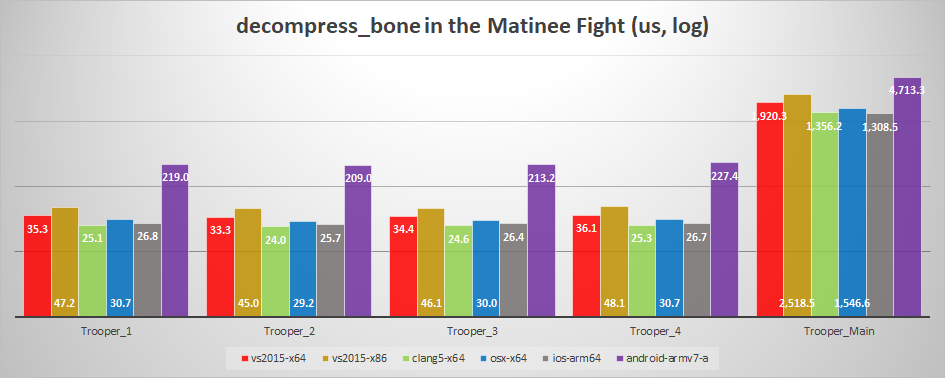
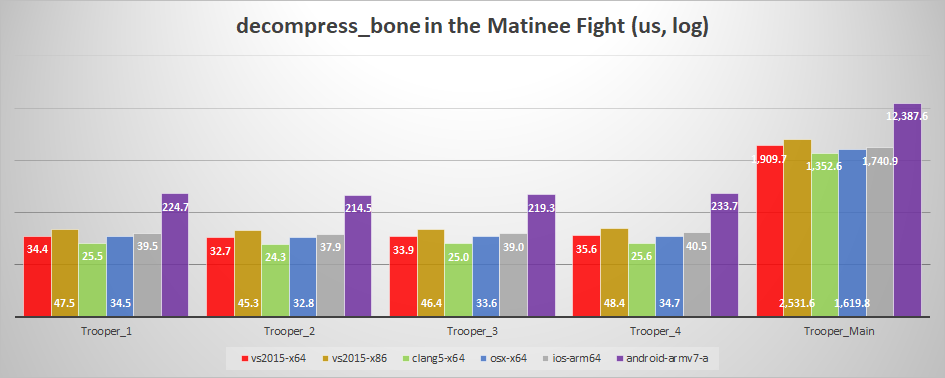
Updating decompression stats. Adding delta decompression stats with previous version as well as supporting script to generate the data.

Changed region(s): [[0.0, 0.4074, 0.7672, 0.8439], [0.7365, 0.2037, 0.982, 0.8439], [0.8286, 0.7857, 0.8593, 0.8148]]

diff --git a/tools/graph_generation/gen_decomp_delta_stats.py b/tools/graph_generation/gen_decomp_delta_stats.py
@@ -1,0 +1,83 @@
+import numpy
+import os
+import sys
+
+# This script depends on a SJSON parsing package:
+# https://pypi.python.org/pypi/SJSON/1.1.0
+# https://shelter13.net/projects/SJSON/
+# https://bitbucket.org/Anteru/sjson/src
+import sjson
+
+def get_clip_name(clip_filename):
+	return clip_filename.replace('_stats.sjson', '')
+
+def get_clip_names(stats_dir):
+	clip_names = []
+	for (dirpath, dirnames, filenames) in os.walk(stats_dir):
+		for filename in filenames:
+			if not filename.endswith('.sjson'):
+				continue
+			clip_names.append(get_clip_name(filename))
+	return sorted(clip_names)
+
+def get_clip_stat_files(stats_dir):
+	stat_files = []
+	for (dirpath, dirnames, filenames) in os.walk(stats_dir):
+		for filename in filenames:
+			if not filename.endswith('.sjson'):
+				continue
+			stat_files.append((get_clip_name(filename), os.path.join(dirpath, filename)))
+	return sorted(stat_files, key = lambda x: x[0])
+
+if __name__ == "__main__":
+	if len(sys.argv) != 2:
+		print('Usage: python gen_decomp_delta_stats.py <path/to/input_file.sjson>')
+		sys.exit(1)
+
+	input_sjson_file = sys.argv[1]
+	if not input_sjson_file.endswith('.sjson'):
+		print('Expected SJSON input file, found: {}'.format(input_sjson_file))
+		sys.exit(1)
+
+	if not os.path.exists(input_sjson_file):
+		print('Input file not found: {}'.format(input_sjson_file))
+		sys.exit(1)
+
+	with open(input_sjson_file, 'r') as file:
+		input_sjson_data = sjson.loads(file.read())
+
+	clip_names = []
+
+	decomp_delta_cold_csv_file = open('decomp_delta_cold_forward_stats.csv', 'w')
+
+	for entry in input_sjson_data['inputs']:
+		print('Processing {} ...'.format(entry['stats_dir']))
+
+		if len(clip_names) == 0:
+			clip_names = get_clip_names(entry['stats_dir'])
+			print('Variants,Config,Version,{}'.format(','.join(clip_names)), file = decomp_delta_cold_csv_file)
+
+		pose_cold_medians = []
+		pose_warm_medians = []
+		bone_cold_medians = []
+
+		stat_files = get_clip_stat_files(entry['stats_dir'])
+		for (clip_name, stat_filename) in stat_files:
+			print('  Processing {} ...'.format(stat_filename))
+
+			with open(stat_filename, 'r') as file:
+				clip_sjson_data = sjson.loads(file.read())
+
+			run_data = clip_sjson_data['runs'][0]['decompression_time_per_sample']
+
+			# We also convert the elapsed time from milliseconds into microseconds
+			forward_data_pose_cold = run_data['forward_pose_cold']['data']
+			pose_cold_medians.append(str(numpy.median(forward_data_pose_cold) * 1000.0))
+
+			forward_data_bone_cold = run_data['forward_bone_cold']['data']
+			bone_cold_medians.append(str(numpy.median(forward_data_bone_cold) * 1000.0))
+
+		print('decompress_pose,{},{},{}'.format(entry['name'], entry['version'], ','.join(pose_cold_medians)), file = decomp_delta_cold_csv_file)
+		print('decompress_bone,{},{},{}'.format(entry['name'], entry['version'], ','.join(bone_cold_medians)), file = decomp_delta_cold_csv_file)
+
+	decomp_delta_cold_csv_file.close()

diff --git a/docs/decompression_performance.md b/docs/decompression_performance.md
@@ -7,7 +7,7 @@ Here are the clips we measure on:
 *  The 42 [regression clips](../test_data) from [CMU](cmu_performance.md) database
 *  The 5 clips from the [Matinee fight](fight_scene_performance.md) scene
 
-Note that the data is not yet publicly available.
+Note that the data is not yet conveniently packaged.
 
 Here are the platforms we measure on:
 
@@ -17,6 +17,8 @@ Here are the platforms we measure on:
 *  Tablet: iPad Pro 10.5 inch @ 2.39 GHz
 
 We only show a few compilers and architectures to keep the graphs readable. The *Visual Studio 2017* numbers are nearly identical to *Visual Studio 2015* and are omitted for that reason. *GCC 7* lands in between *VS 2015* and *Clang 5* and is omitted. Only *VS 2015* is shown for *x86* because it is generally a bit slower than the *x64* variant for all compilers and it isn't commonly used in games.
+
+**Unless otherwise specified, the results are from release [1.0.0](https://github.com/nfrechette/acl/releases/tag/v1.0.0)**
 
 ## Uniformly sampled algorithm
 
@@ -31,9 +33,19 @@ This function decompresses a whole pose in one go. Shown here is forward playbac
 ![Uniform decompress_pose CMU Performance](images/acl_decomp_uniform_pose_cmu.png)
 ![Uniform decompress_pose Matinee Performance](images/acl_decomp_uniform_pose_matinee.png)
 
+Here is the delta with the previous version:
+
+![Uniform decompress_pose CMU Performance Delta](images/acl_decomp_delta_uniform_pose_cmu.png)
+![Uniform decompress_pose Matinee Performance Delta](images/acl_decomp_delta_uniform_pose_matinee.png)
+
 ### decompress_bone
 
 This function decompresses a single bone. To generate the graphs, we measure the cost of decompressing a whole pose one bone at a time. Shown here is forward playback with a cold CPU cache.
 
 ![Uniform decompress_bone CMU Performance](images/acl_decomp_uniform_bone_cmu.png)
 ![Uniform decompress_bone Matinee Performance](images/acl_decomp_uniform_bone_matinee.png)
+
+Here is the delta with the previous version:
+
+![Uniform decompress_bone CMU Performance Delta](images/acl_decomp_delta_uniform_bone_cmu.png)
+![Uniform decompress_bone Matinee Performance Delta](images/acl_decomp_delta_uniform_bone_matinee.png)
